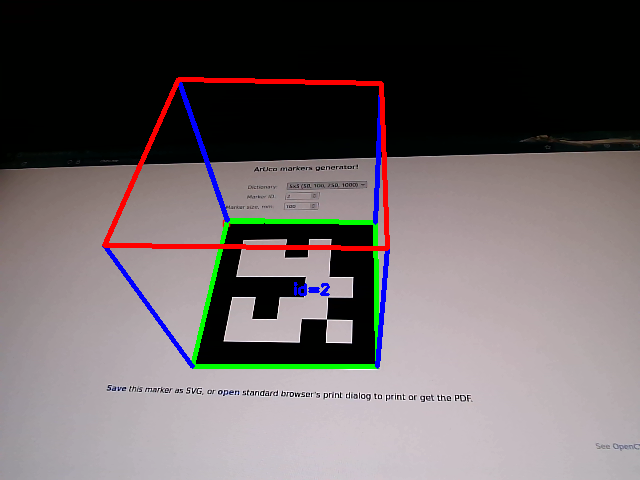
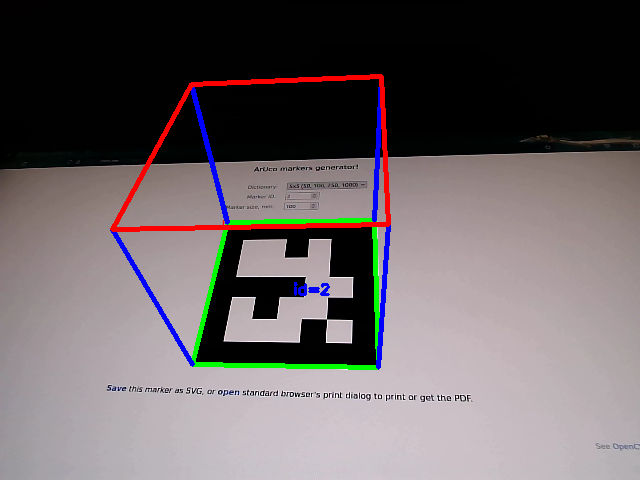
Distortion coefficients for Robot Perception HW1 Q3 and Q4 added.

diff --git a/Robot Perception (ROB-GY 6203)/Homework/HW1/Q4/q4_ans.py b/Robot Perception (ROB-GY 6203)/Homework/HW1/Q4/q4_ans.py
@@ -25,6 +25,10 @@ K = np.array([
 #     [0,	0,	1]
 # ])
 
+# Camera distortion coefficients generated through OpenCV Code
+DIST = np.array([-0.21914991,  0.19218259,
+                0.01419519,  0.02305682, -0.07298546])
+
 # Define the marker length in meters (adjust based on your actual marker size)
 MARKER_LENGTH = 0.1  # 100 mm
 
@@ -83,7 +87,7 @@ def initialize_aruco_detector():
     return detector, aruco_dict
 
 
-def estimate_pose(corners, marker_length, camera_matrix):
+def estimate_pose(corners, marker_length, camera_matrix, dist_coeff):
     """
     Estimate the pose (rotation and translation vectors) of detected ArUco markers.
 
@@ -103,12 +107,12 @@ def estimate_pose(corners, marker_length, camera_matrix):
         corners=corners,
         markerLength=marker_length,
         cameraMatrix=camera_matrix,
-        distCoeffs=np.zeros((4, 1))  # Zero distortion coefficients
+        distCoeffs=dist_coeff
     )
     return rvecs, tvecs
 
 
-def draw_cube(img, rvec, tvec, camera_matrix, marker_length):
+def draw_cube(img, rvec, tvec, camera_matrix, marker_length, dist_coeff):
     """
     Draw a 3D cube on the detected ArUco marker within the image.
 
@@ -118,6 +122,7 @@ def draw_cube(img, rvec, tvec, camera_matrix, marker_length):
         tvec (numpy.ndarray): Translation vector of the marker.
         camera_matrix (numpy.ndarray): Camera intrinsic matrix.
         marker_length (float): The actual length of the marker's side (in meters).
+        dist_coeff (numpy.ndarray): Camera lens distortion coefficients
 
     Returns:
         numpy.ndarray: The image with the 3D cube drawn on the marker.
@@ -139,11 +144,11 @@ def draw_cube(img, rvec, tvec, camera_matrix, marker_length):
 
     # Project the 3D cube points to the 2D image plane
     imgpts, _ = cv2.projectPoints(
-        cube_points,
-        rvec,
-        tvec,
-        camera_matrix,
-        None  # Assuming no lens distortion
+        objectPoints=cube_points,
+        rvec=rvec,
+        tvec=tvec,
+        cameraMatrix=camera_matrix,
+        distCoeffs=dist_coeff
     )
     imgpts = np.int32(imgpts).reshape(-1, 2)  # Convert to integer coordinates
 
@@ -199,7 +204,8 @@ def main():
             rvecs, tvecs = estimate_pose(
                 corners=corners,
                 marker_length=MARKER_LENGTH,
-                camera_matrix=K
+                camera_matrix=K,
+                dist_coeff=DIST
             )
 
             # Iterate through each detected marker to draw annotations
@@ -217,7 +223,8 @@ def main():
                     rvec=rvecs[i],
                     tvec=tvecs[i],
                     camera_matrix=K,
-                    marker_length=MARKER_LENGTH
+                    marker_length=MARKER_LENGTH,
+                    dist_coeff=DIST
                 )
         else:
             print("No markers detected.")

diff --git a/Robot Perception (ROB-GY 6203)/Homework/HW1/Q3/q3_ans.py b/Robot Perception (ROB-GY 6203)/Homework/HW1/Q3/q3_ans.py
@@ -5,7 +5,7 @@ from pathlib import Path
 from time import time, sleep
 
 # Constants
-K = 'k2'  # 'k1' for images within 1m and 'k2' for images within 2m and 3m distance
+K = 'k1'  # 'k1' for images within 1m and 'k2' for images within 2m and 3m distance
 CAM_PORT = 2  # Camera port index
 FOLDER_PATH = Path(f"./Q3/img_{K}")  # Path to save captured images
 
@@ -230,6 +230,7 @@ def main():
 
     print(f"Total mean re-projection error: {mean_error}")
     print(f"Camera Matrix ({K}):\n{mtx}")
+    print(f"Distortion Coefficients = {dist} ")
 
 
 if __name__ == "__main__":
